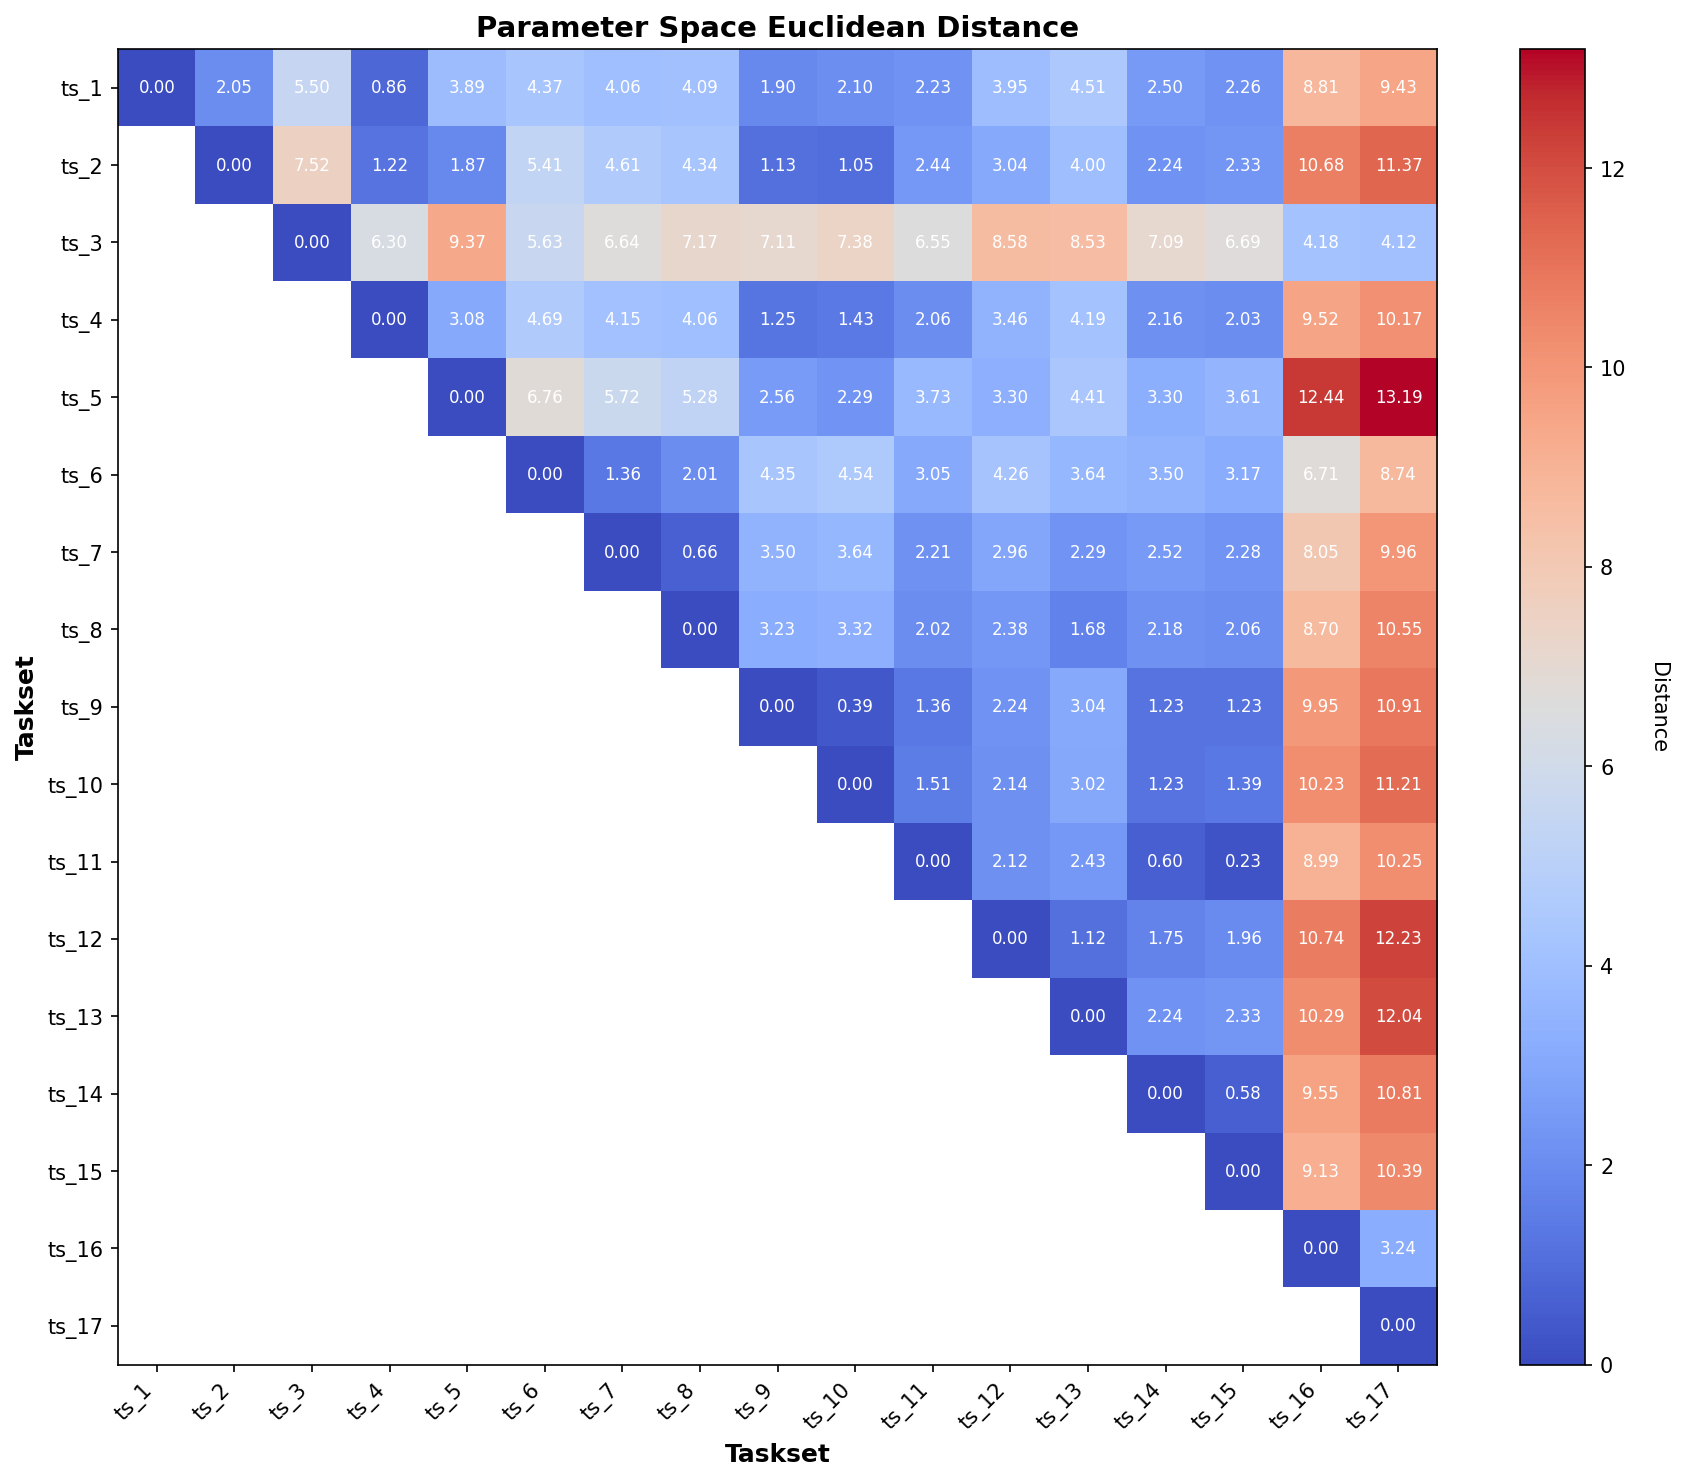
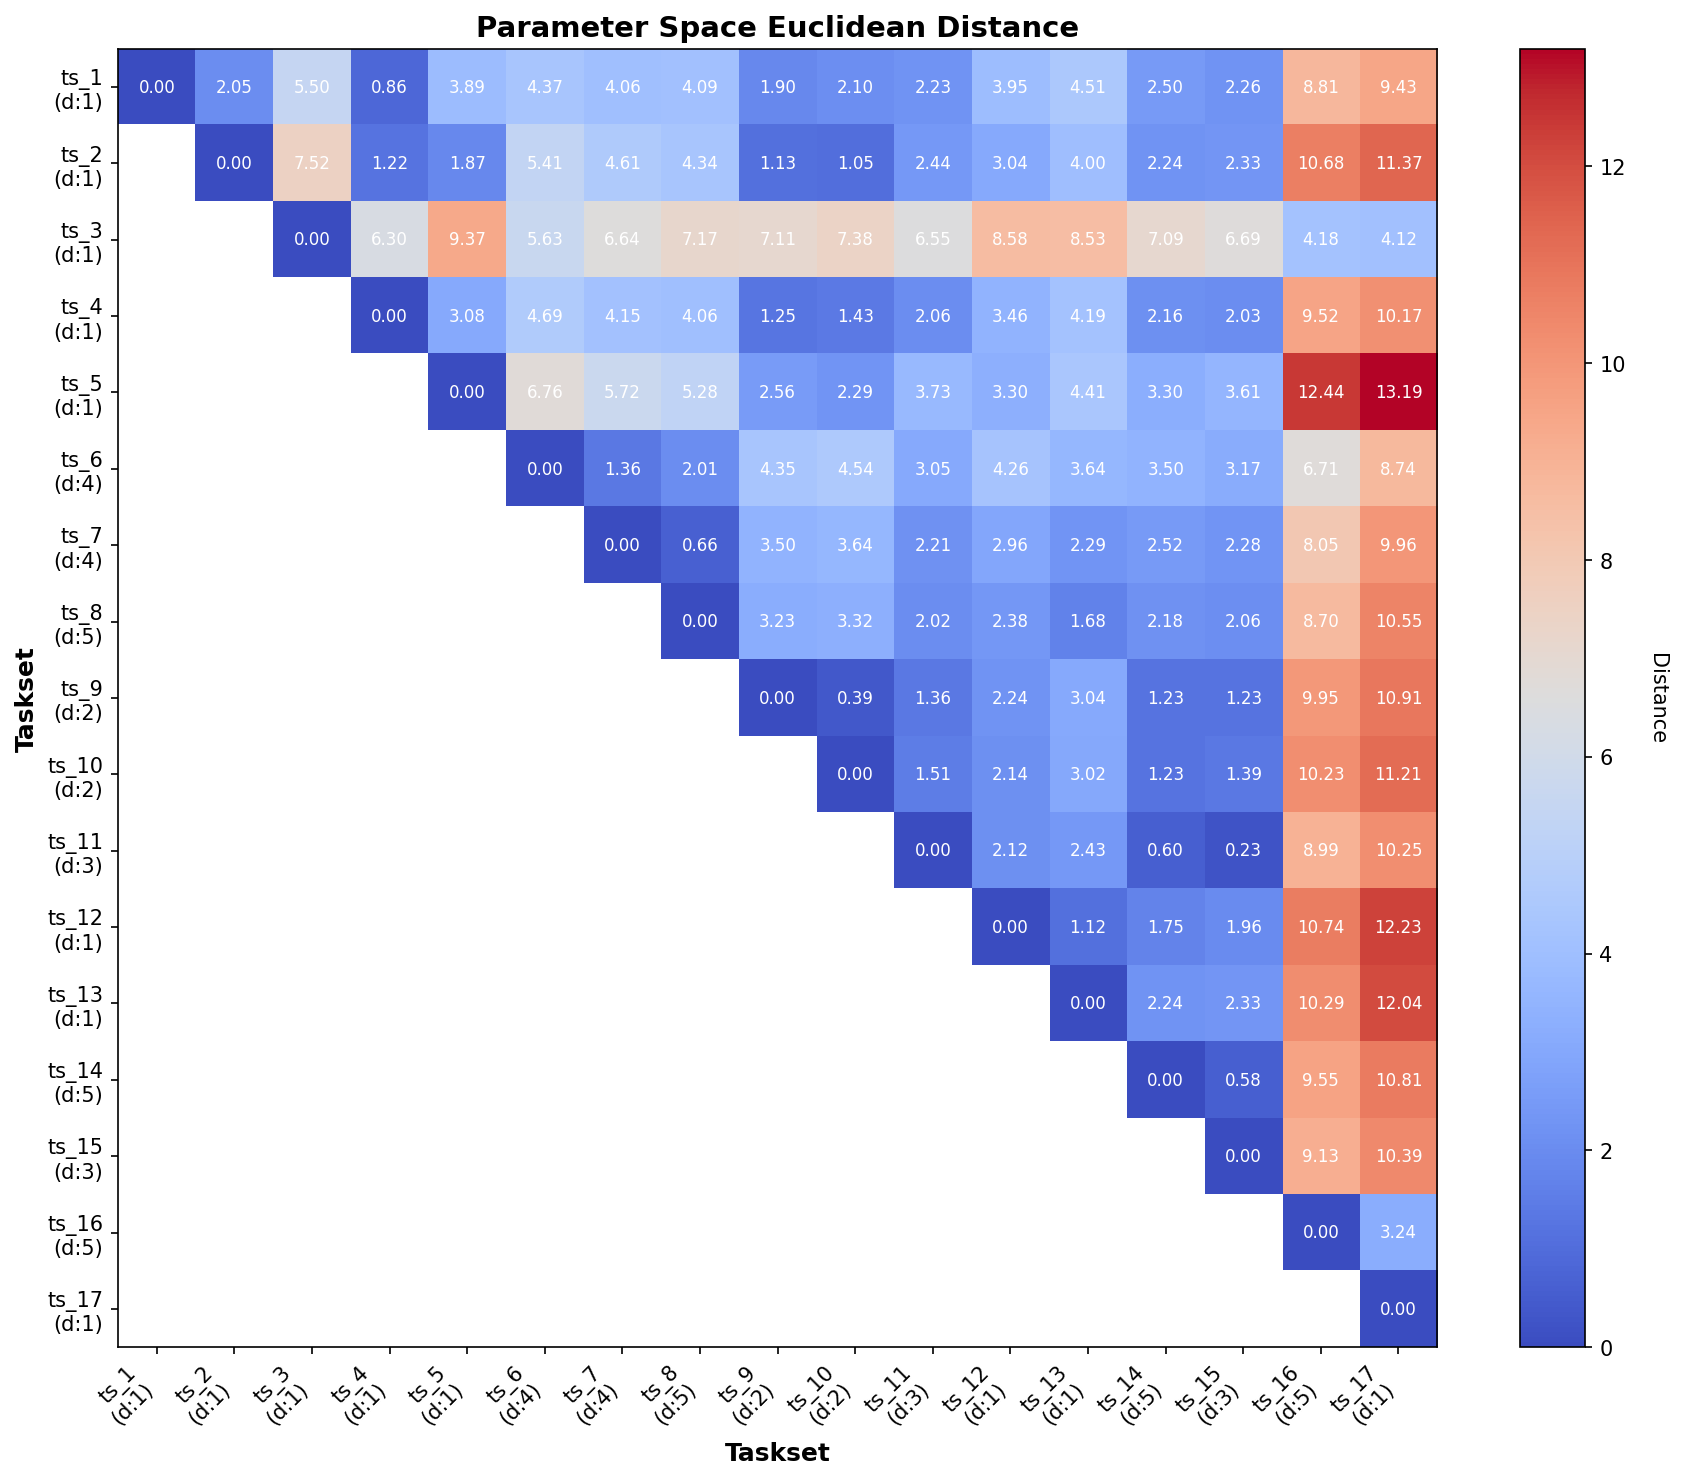
some minor changes to distance map

diff --git a/costfunction/fitting.py b/costfunction/fitting.py
@@ -105,7 +105,7 @@ def functionFitting():
 
 def plotVariableDifficultyCorrelation():
     fig, axes = plt.subplots(2, 2, figsize=(14, 10))
-    fig.suptitle('Variable Correlation with Task Difficulty', fontsize=16, fontweight='bold')
+    fig.suptitle('Parameter Correlation with Task Difficulty', fontsize=16, fontweight='bold')
     
     variables = [
         ('N', N, 'Number of Tasks'),
@@ -136,8 +136,8 @@ def plotVariableDifficultyCorrelation():
         ax.legend(fontsize=9)
     
     plt.tight_layout()
-    plt.savefig('variable_difficulty_correlation.png', dpi=150, bbox_inches='tight')
-    print("\n Saved plot as 'variable_difficulty_correlation.png'")
+    plt.savefig('parameter_difficulty_correlation.png', dpi=150, bbox_inches='tight')
+    print("\n Saved plot as 'parameter_difficulty_correlation.png'")
     plt.show()
 
 
@@ -160,7 +160,7 @@ def calculateParameterSpaceDistance():
     
     im = ax.imshow(masked_matrix, cmap='coolwarm', aspect='auto')
     
-    taskset_ids = [f'ts_{i+1}' for i in range(n_tasksets)]
+    taskset_ids = [f'ts_{i+1}\n(d:{int(y[i])})' for i in range(n_tasksets)]
     ax.set_xticks(range(n_tasksets))
     ax.set_yticks(range(n_tasksets))
     ax.set_xticklabels(taskset_ids, rotation=45, ha='right')
@@ -180,7 +180,7 @@ def calculateParameterSpaceDistance():
     
     plt.tight_layout()
     plt.savefig('parameter_space_distance_matrix.png', dpi=150, bbox_inches='tight')
-    print("\n Saved distance matrix as 'parameter_space_distance_matrix.png'")
+    print("\n Saved distance matrix as 'parameter_distance_map.png'")
     plt.show()
     
     # Print statistics
